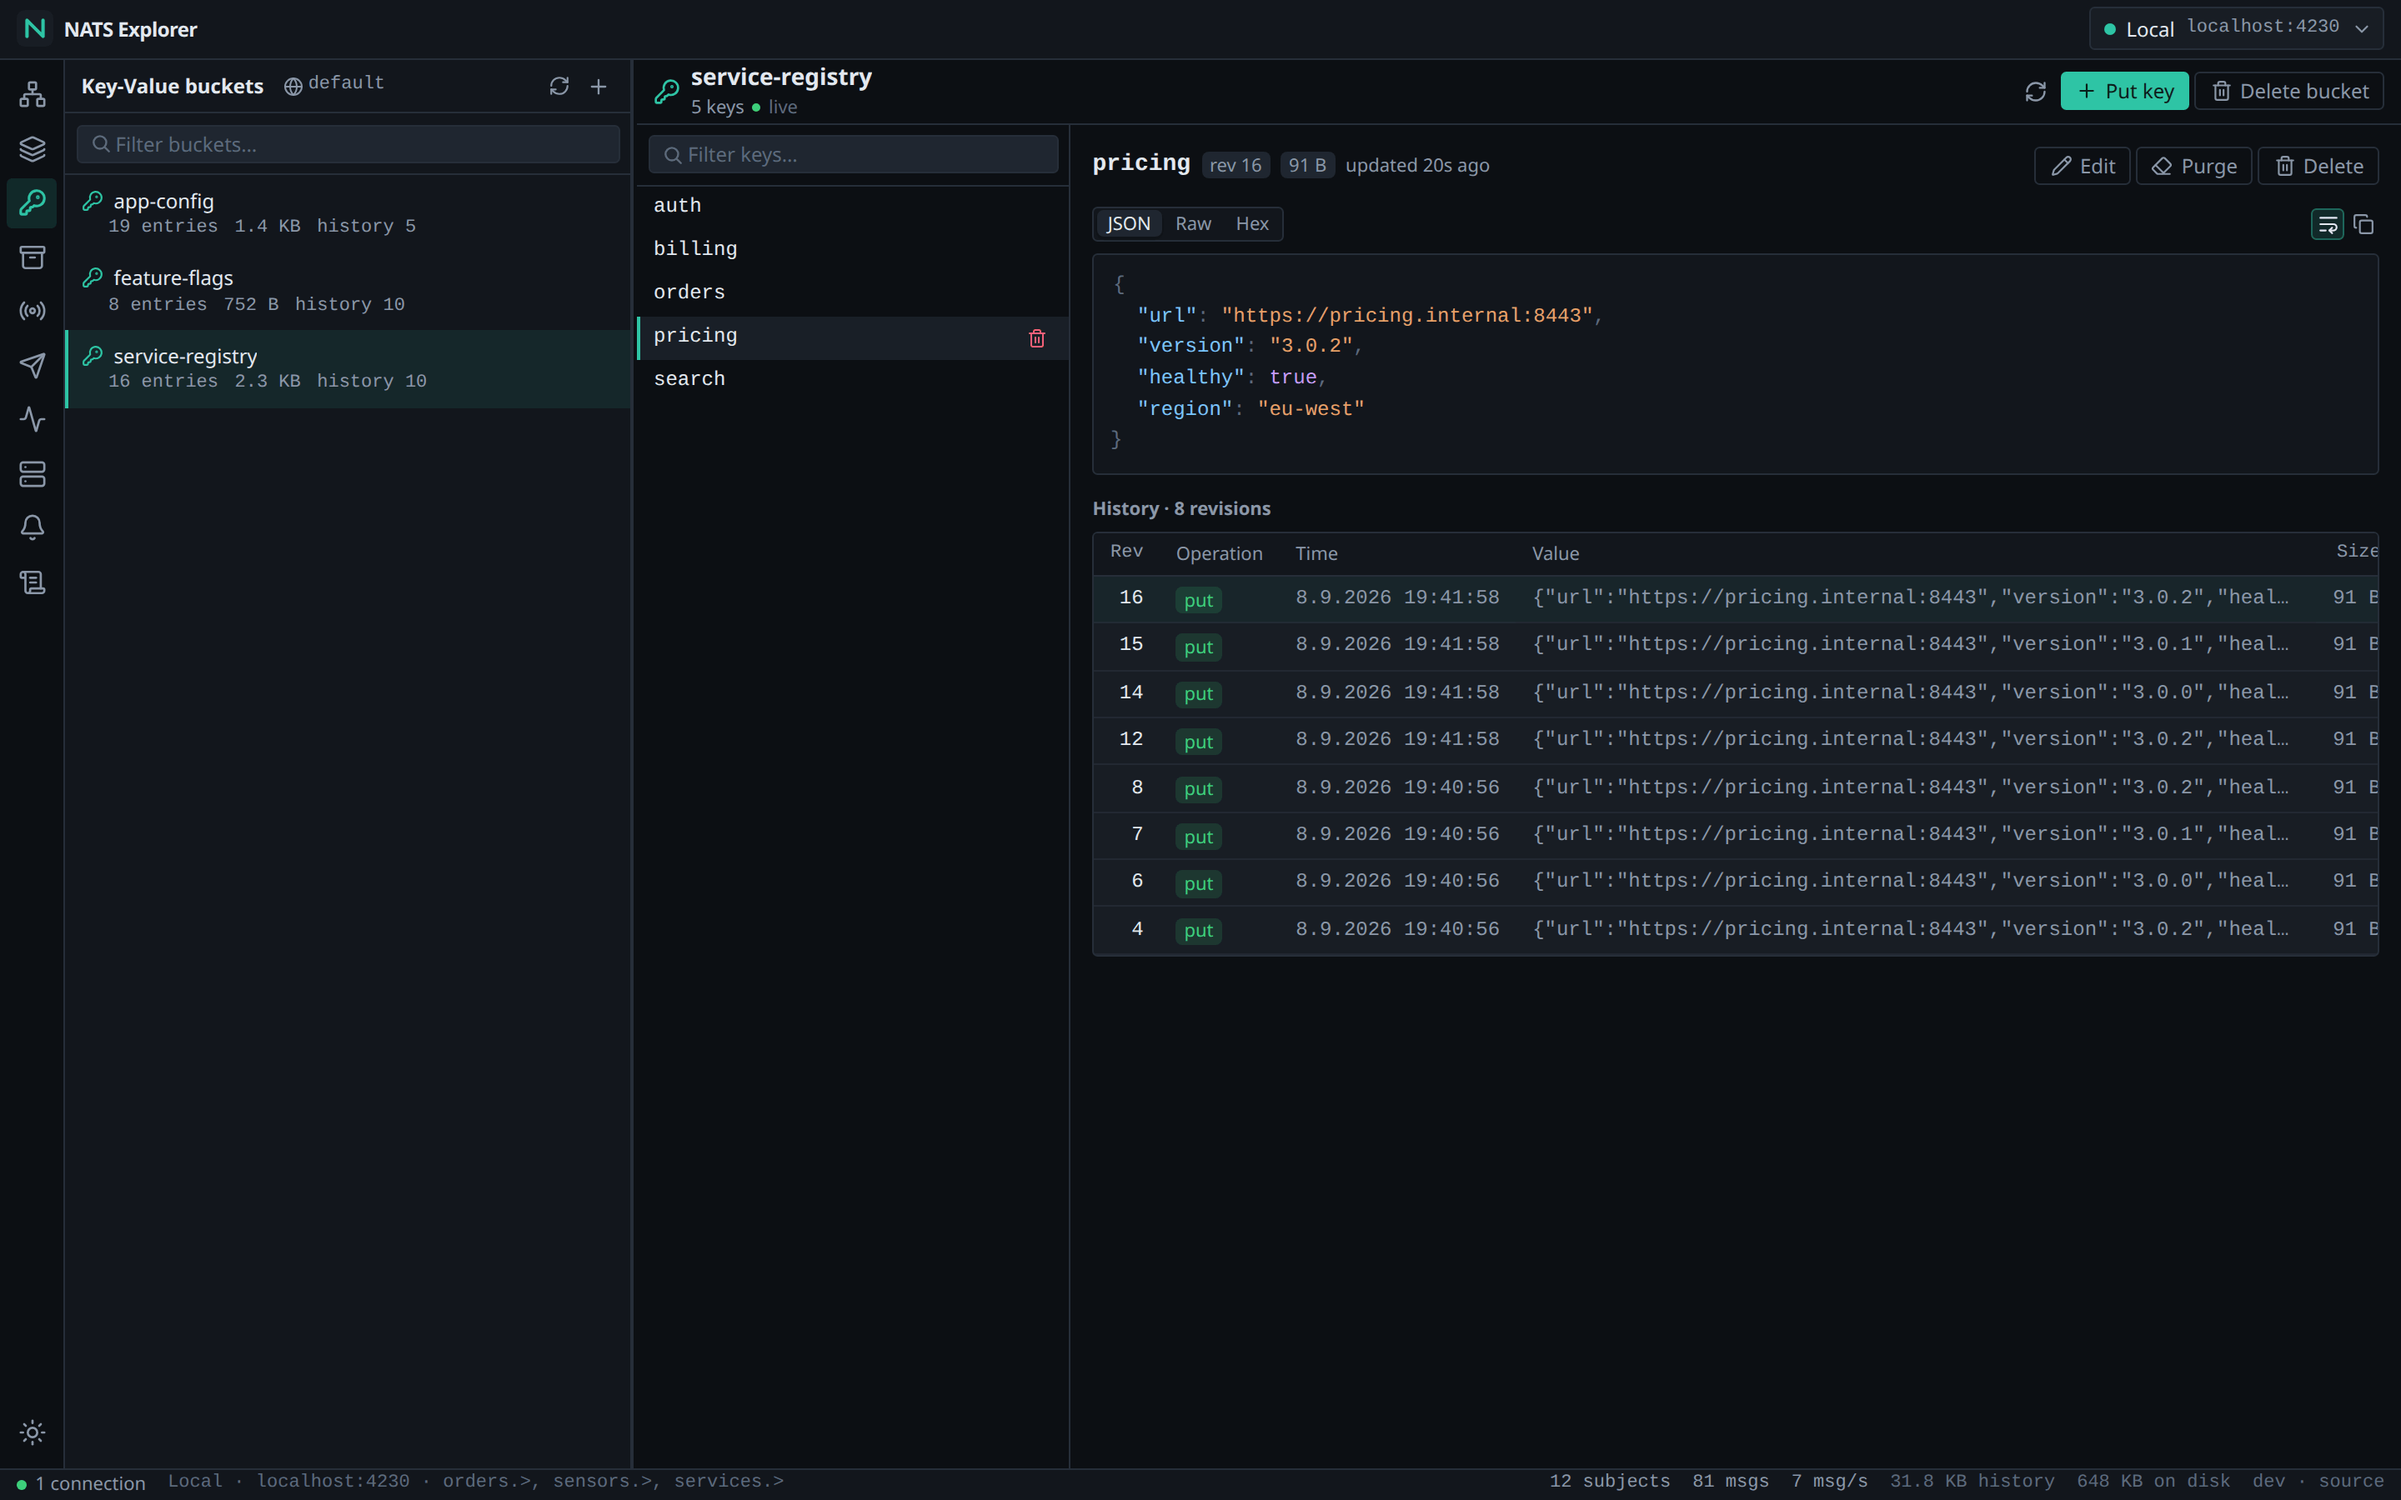
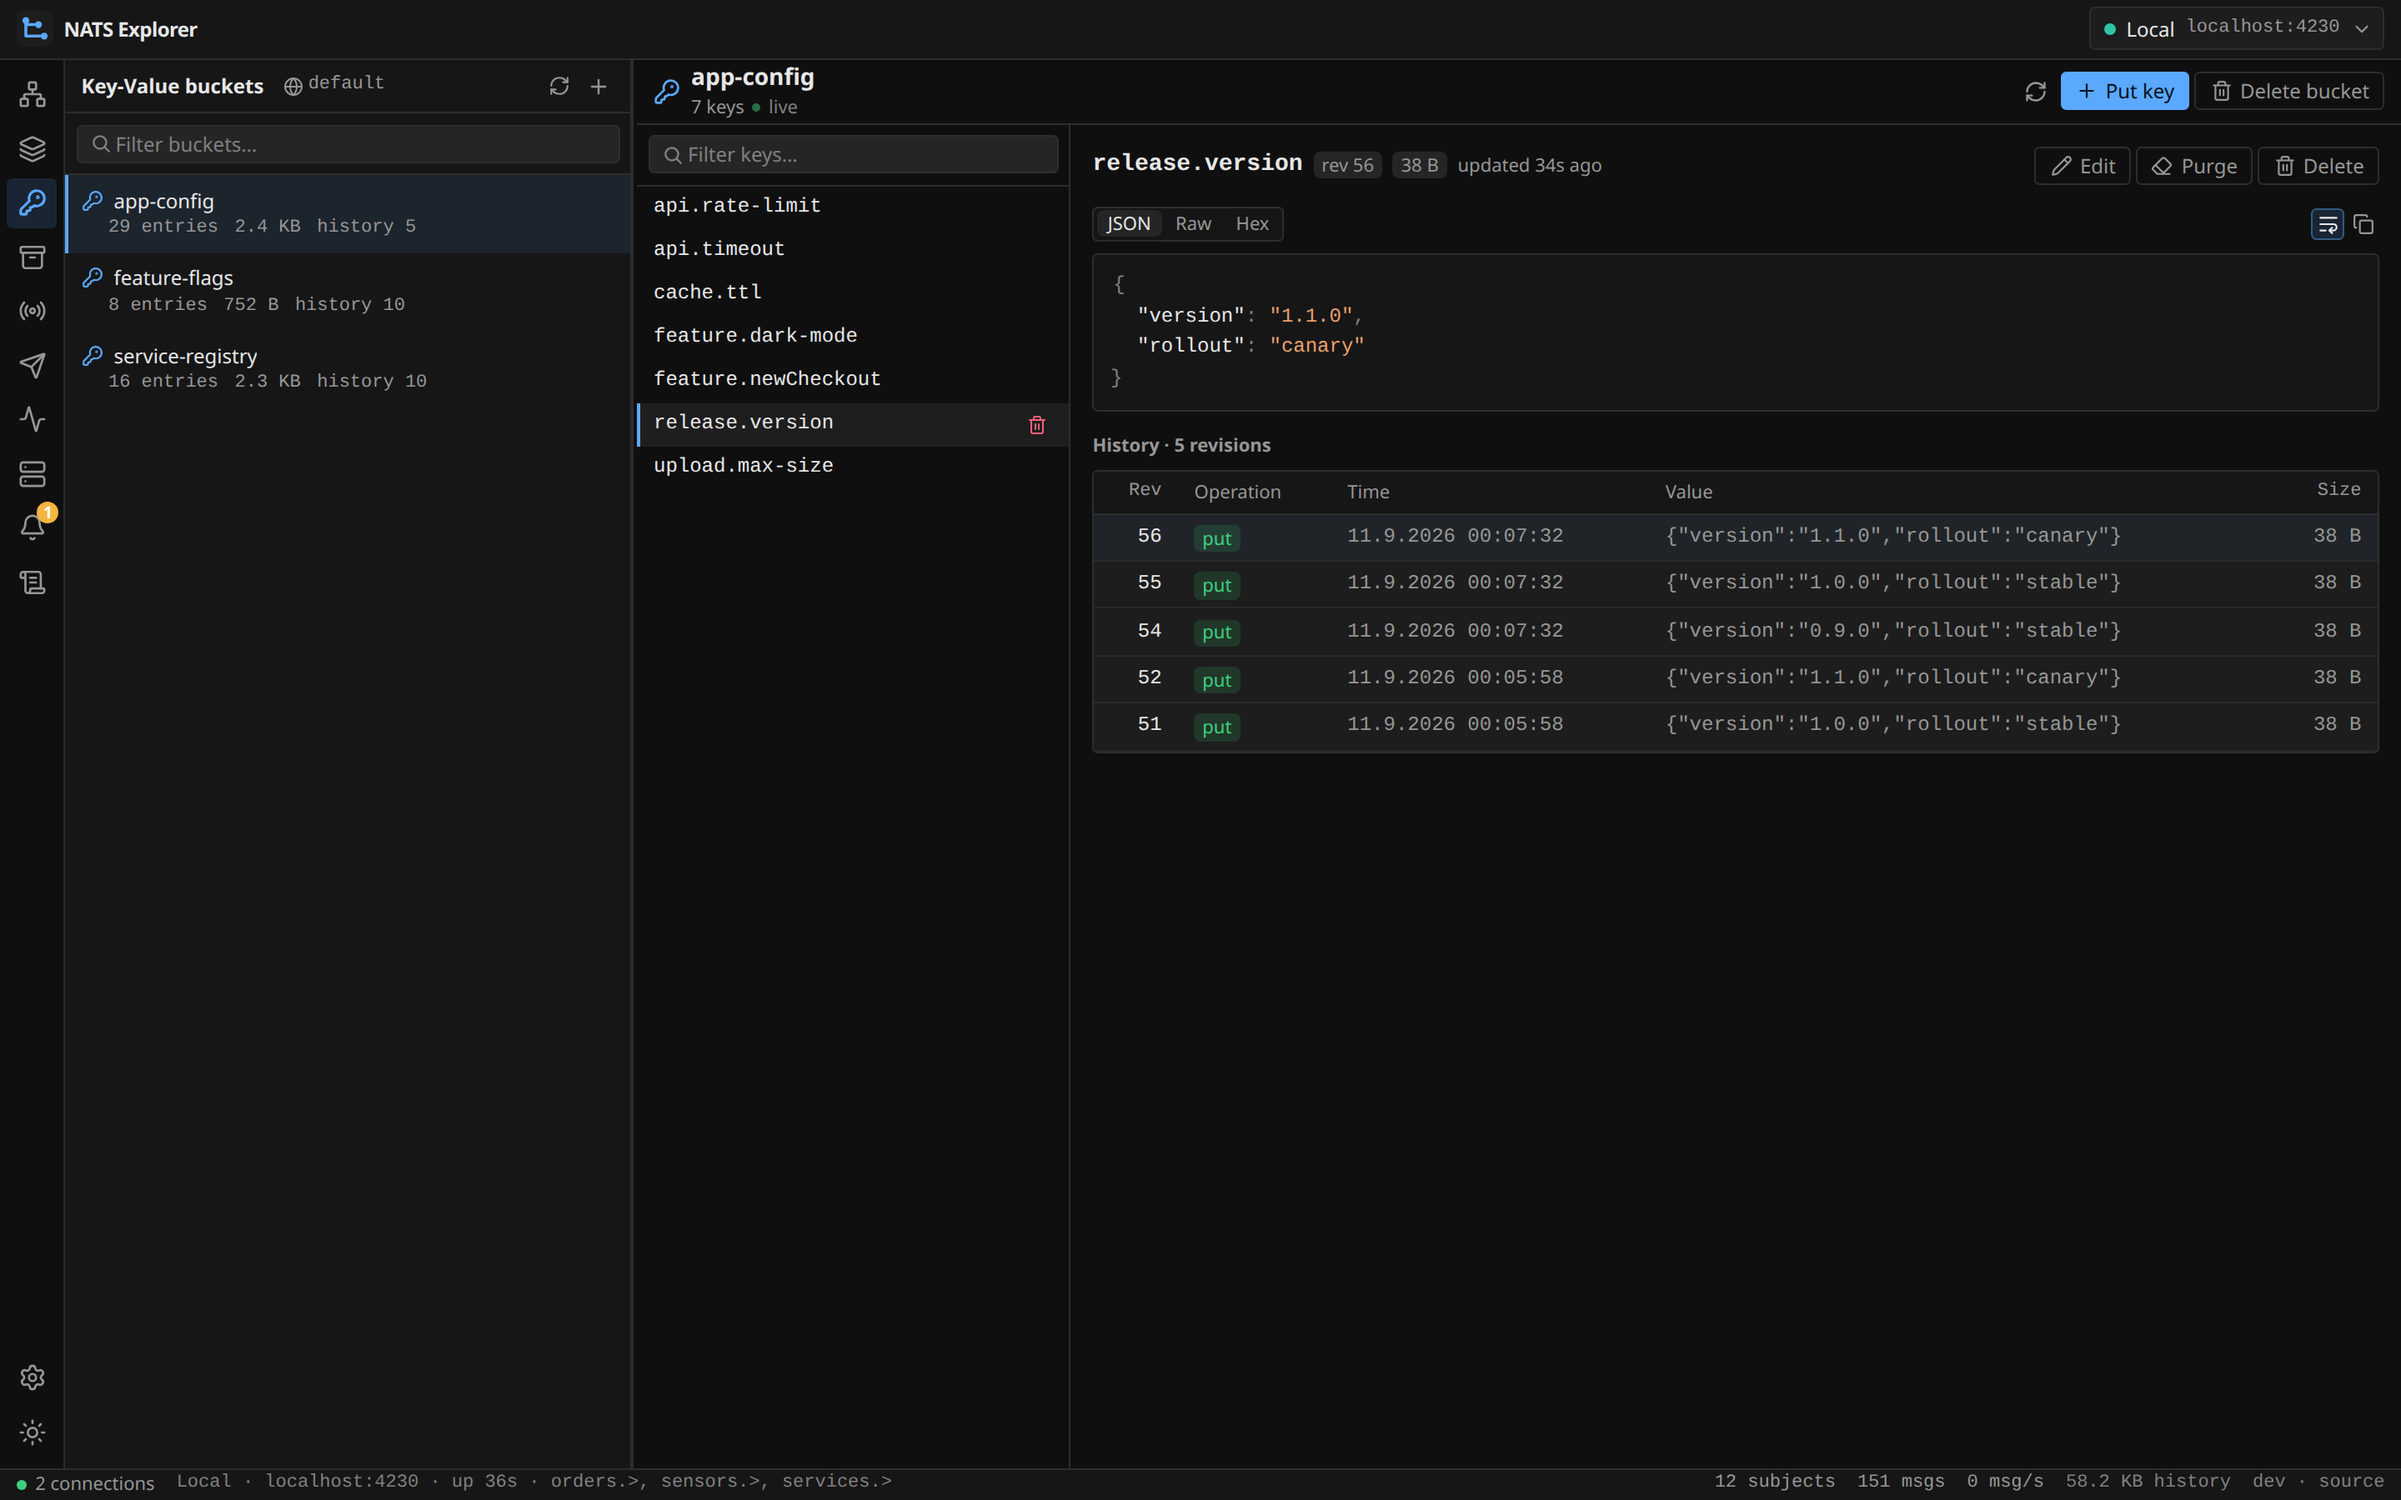
docs: retake the screenshots, and make them a command
They were made by hand, which is why they aged: the accent was still
teal and the monitoring page still a ribbon of loose strips long after
neither was true, and nothing in the repository could produce them
again.

e2e/screenshots.mjs does it now. It publishes its own dataset -- six
sensors on two floors, an order that moves through three subjects, a
KV bucket with revisions, two alert rules, a service to send requests
at -- drives the interface through the seven views and writes the
files. `bun run --filter e2e screenshots`.

The seven are current: the blue accent and the subject-tree logo, the
schema panel with its types and ranges, the grouped monitoring page,
the sequence gaps on a stream, a request run of 400 with its
percentiles and the histogram of where the replies landed, and the
connection switcher over the subjects rather than over whatever pane
happened to be open.

The theme is set per page rather than inherited from the machine
taking them: a file called *-dark is dark wherever it is made.

And the README carries the logo, and its feature list says what 0.4.0
does -- the debugging answers, several fields per chart, the delay from
the producer's clock, a pinned schema colouring the history.

diff --git a/README.md b/README.md
@@ -1,6 +1,8 @@
+<img src="docs/assets/images/logo.png" alt="" width="80" height="80">
+
 # NATS Explorer
 
-A NATS management tool and message explorer inspired by MQTT Explorer, as a desktop app for Windows, macOS and Linux, or as a web UI served by a single Go binary. Browse subjects as a live tree, manage JetStream streams, Key-Value and Object Stores, run and repeat requests, watch servers, clusters and leaf nodes -- and keep the messages after the tab is closed.
+A NATS management tool and message explorer inspired by MQTT Explorer, as a desktop app for Windows, macOS and Linux, or as a web UI served by a single Go binary. Browse subjects as a live tree, manage JetStream streams, Key-Value and Object Stores, run and repeat requests, watch servers, clusters and leaf nodes -- keep the messages after the tab is closed, and get an answer when something does not arrive.
 
 Documentation: **[blanpa.github.io/nats-explorer](https://blanpa.github.io/nats-explorer/)** --
 [installation](https://blanpa.github.io/nats-explorer/installation.html),
@@ -81,11 +83,12 @@ Then add your server in the connection dialog. The [installation guide](https://
 ## What it does
 
 - **Subjects** -- a live tree of every subject a connection sees, virtualized and filterable, with the last value and the rate of each, and bookmarks for the ones worth coming back to
-- **Messages** -- JSON, raw and hex; headers; history; diff to the previous message; MessagePack, Protobuf and Avro decoded into the tree
-- **Charts** -- click a number in a payload to chart that field over time, drag across the chart to zoom into a stretch of it
-- **History that outlives the tab** -- an optional SQLite copy with a retention, time ranges, full-text search, and exports in six shapes including a `nats` CLI replay script
+- **Messages** -- JSON, raw and hex; history; diff to the previous message; MessagePack, Protobuf and Avro decoded into the tree; and the headers NATS sets explaining what they do
+- **Charts** -- click a number in a payload to chart that field over time, several at once with seven reductions, drag across a chart to zoom into a stretch of it, or chart the delay between the producer's clock and yours
+- **Debugging** -- what a subject would run into (subscriptions, streams, consumers, rules, schema), one message followed through the subjects it touched, the sequences a stream does not have, and the message a consumer is stuck on
+- **History that outlives the tab** -- an optional SQLite copy with a retention, time ranges from 15 minutes to forever, full-text search, and exports in six shapes including a `nats` CLI replay script
 - **JetStream** -- streams, consumers, messages and live tail; Key-Value buckets and Object Stores; JetStream domains for hub and leaf setups
-- **Filter and schema** -- a [CEL](https://cel.dev/) expression such as `payload.temp > 80` narrows tree, lists and charts; each subject's fields are read back from its own messages, with a marker when they drift
+- **Filter and schema** -- a [CEL](https://cel.dev/) expression such as `payload.temp > 80` narrows tree, lists and charts; each subject's fields are read back from its own messages, and a schema pinned as expected colours the history green or red
 - **Alerts** -- rules watch a subject pattern for a condition and keep firing with no browser open, with an optional webhook
 - **Requests** -- saved templates, request/reply, and repeated runs with latency percentiles and a histogram of the replies
 - **Monitoring and cluster** -- throughput history, every node of the cluster, the JetStream meta cluster and stream placement, and a Prometheus endpoint

diff --git a/docs/development.md b/docs/development.md
@@ -40,6 +40,7 @@ Connect to `nats://localhost:4230` in the connection dialog.
 | `bun run test:e2e` | Playwright suite, one file per module in `e2e/` with shared helpers in `support.ts` against `http://localhost:3002` (`NE_URL`, `NATS_URL`, `PW_CHROME`) |
 | `scripts/build-desktop.sh` with `linux`, `windows` or `macos` | Desktop packages for one platform (`--docker` runs Linux and Windows in the builder image) |
 | `scripts/smoke-desktop.sh <binary>` | Launches a desktop build headless and checks API, UI, websocket and settings persistence |
+| `bun run --filter e2e screenshots` | Retakes the screenshots of the README and this site from a known dataset, against an explorer of its own (`NE_URL`, `NATS_URL`, `PW_CHROME`) |
 
 ---
 
